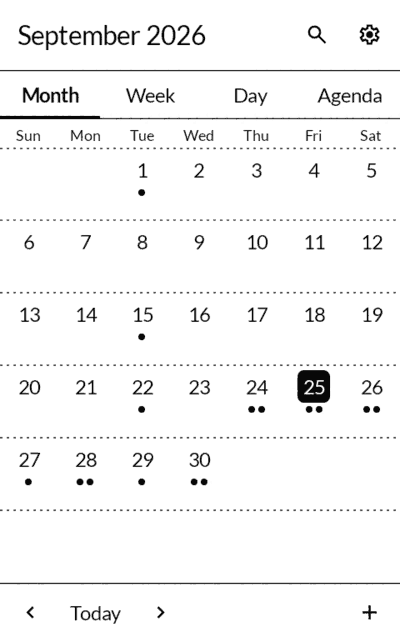
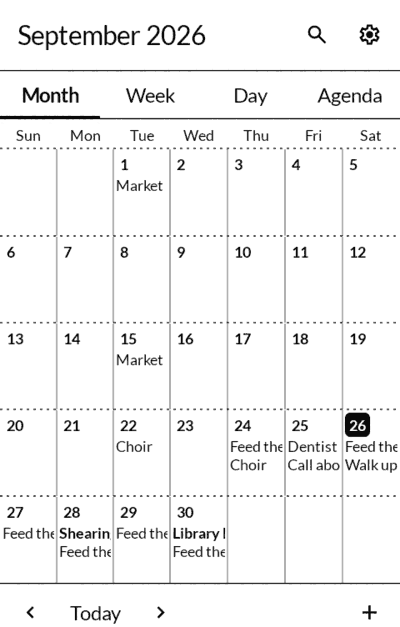
Calendar: the month shows its events

diff --git a/index.html b/index.html
@@ -163,7 +163,7 @@ so nothing animates and every page can be read in sunlight.</p>
 
 <div class="app" id="koyomi">
   <img class="shot" src="shots/koyomi.png" width="400" height="627" loading="lazy"
-       alt="Calendar showing a month, with a mark under each day that has something on it">
+       alt="Calendar showing a month, with the names of each day's events written in its square">
   <h4>Calendar <span class="jp">/ 暦 koyomi</span></h4>
   <p>Month, week, day and agenda, with repeats of every ordinary shape and reminders that
   light the screen. Your Nextcloud or other CalDAV calendar, through DAVx5.</p>
